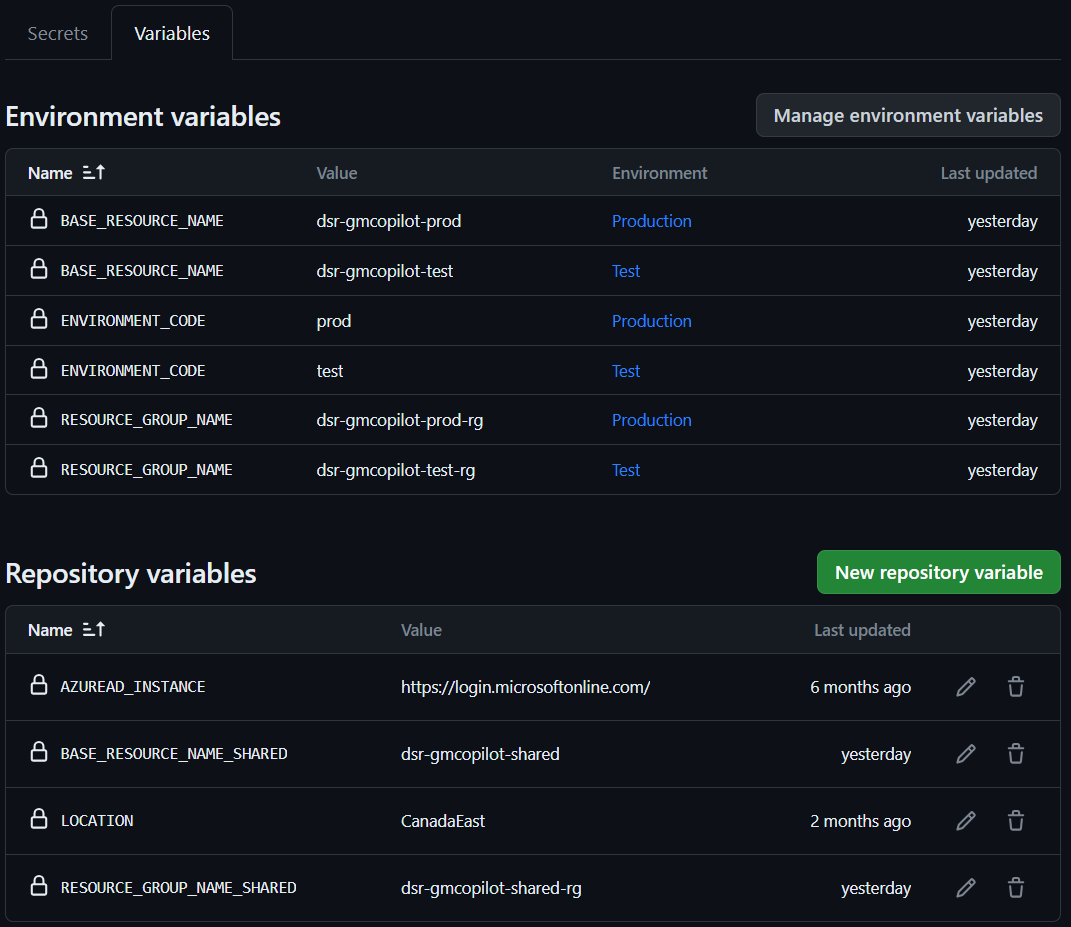
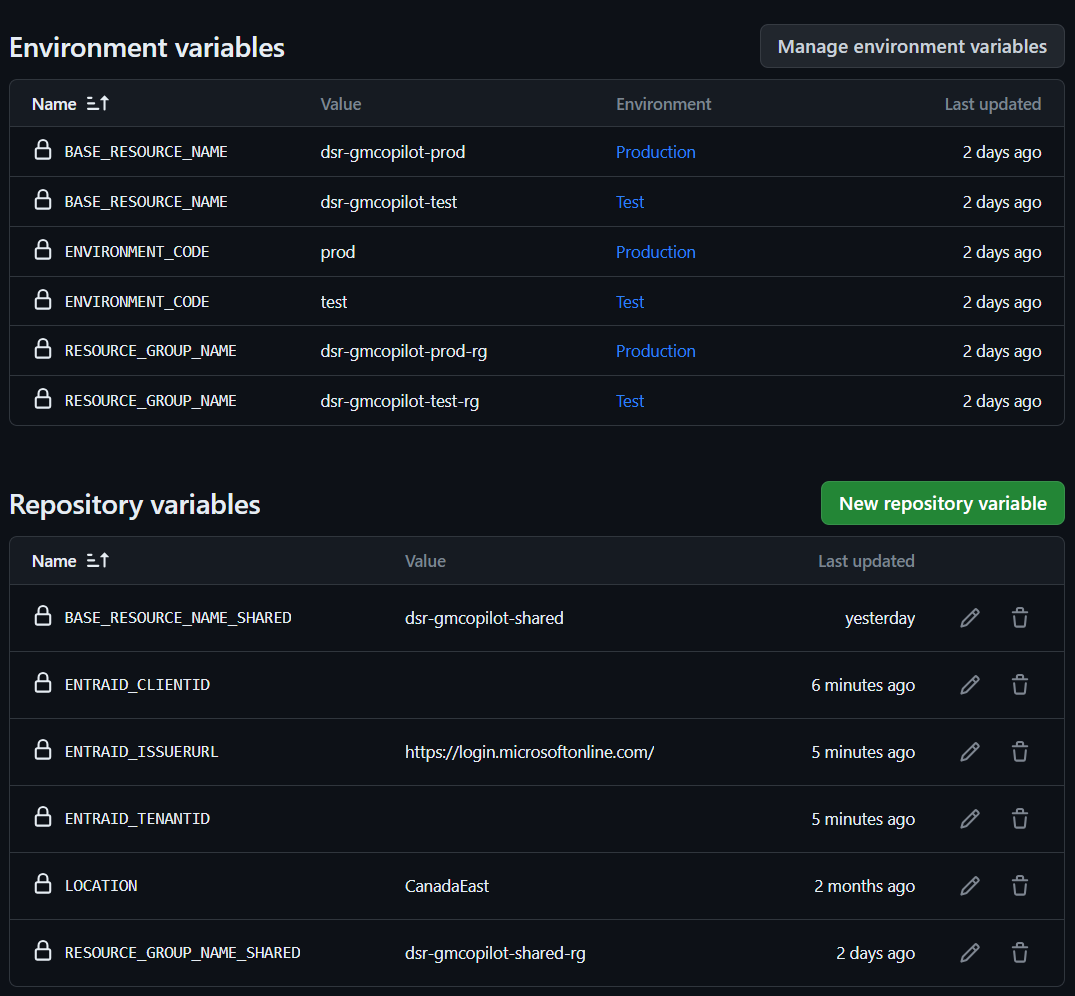
Update authentication to use Entra ID instead of Azure AD

diff --git a/README.md b/README.md
@@ -54,10 +54,15 @@ Currently the `continuous-delivery` only deploys the `test` environment, but in 
 
 The following _Actions Variables_ should be configured in the GitHub repository:
 
-- `AZUREAD_INSTANCE`: The Azure AD URL to use for authentication. For example, `https://login.microsoftonline.com/`.
 - `LOCATION`: The Azure region to deploy the resources to. For example, `EastUS`.
 - `BASE_RESOURCE_NAME_SHARED`: The base name that will prefixed to all _shared_ Azure resources deployed to ensure they are unique. For example, `dsr-gmcopilot-shared`.
 - `RESOURCE_GROUP_NAME_SHARED`: The name of the Azure resource group to create and add the _shared_ resources to. For example, `dsr-gmcopilot-shared-rg`.
+
+The following variables are used to configure authentcation to Entra ID for the application. See [Enable authentication and authorization in Azure Container Apps with Microsoft Entra ID](https://learn.microsoft.com/azure/container-apps/authentication-azure-active-directory) to learn more about how to configure the Application Registration to use.
+
+- `ENTRAID_ISSUER_URL`: The base Entra ID Issuer URL to use for authentication. For example, `https://login.microsoftonline.com/`.
+- `ENTRAID_TENANT_ID`: The Tenant ID of the Entra ID tenant to use for authentication.
+- `ENTRAID_CLIENT_ID`: The Client ID of the Entra ID Application Registration to use for authentication.
 
 The _shared_ resrouces are resources that are shared across all environments. These resources are:
 
@@ -81,10 +86,10 @@ The following _Actions Secrets_ need to be defined so that that the resources ca
 - `AZURE_CLIENT_ID`: The Application (Client) ID of the Service Principal used to authenticate to Azure. This is generated as part of configuring Workload Identity Federation.
 - `AZURE_TENANT_ID`: The Tenant ID of the Service Principal used to authenticate to Azure.
 - `AZURE_SUBSCRIPTION_ID`: The Subscription ID of the Azure Subscription to deploy to.
-- `AZUREAD_DOMAIN`: The domain name of the Azure AD tenant the application will use as an authentication source.
-- `AZUREAD_TENANT_ID`: The Tenant ID of the Azure AD tenant the application will use as an authentication source.
-- `AZUREAD_CLIENT_ID`: The client ID of the Azure AD Application that has been created in the Azure AD tenant to be used as an authentication source.
-- `AZUREAD_CLIENTSECRET`: The client secret of the Azure AD Application that has been created in the Azure AD tenant to be used as an authentication source.
+
+### Using Entra ID (Customer) as an Authentication Source
+
+- `ENTRAID_CLIENT_SECRET`: The client secret of the Entra ID application registration that has been created in the Entra ID tenant to be used as an authentication source.
 
 These values should be kept secret and care taken to ensure they are not shared with anyone.
 Your secrets should look like this:
